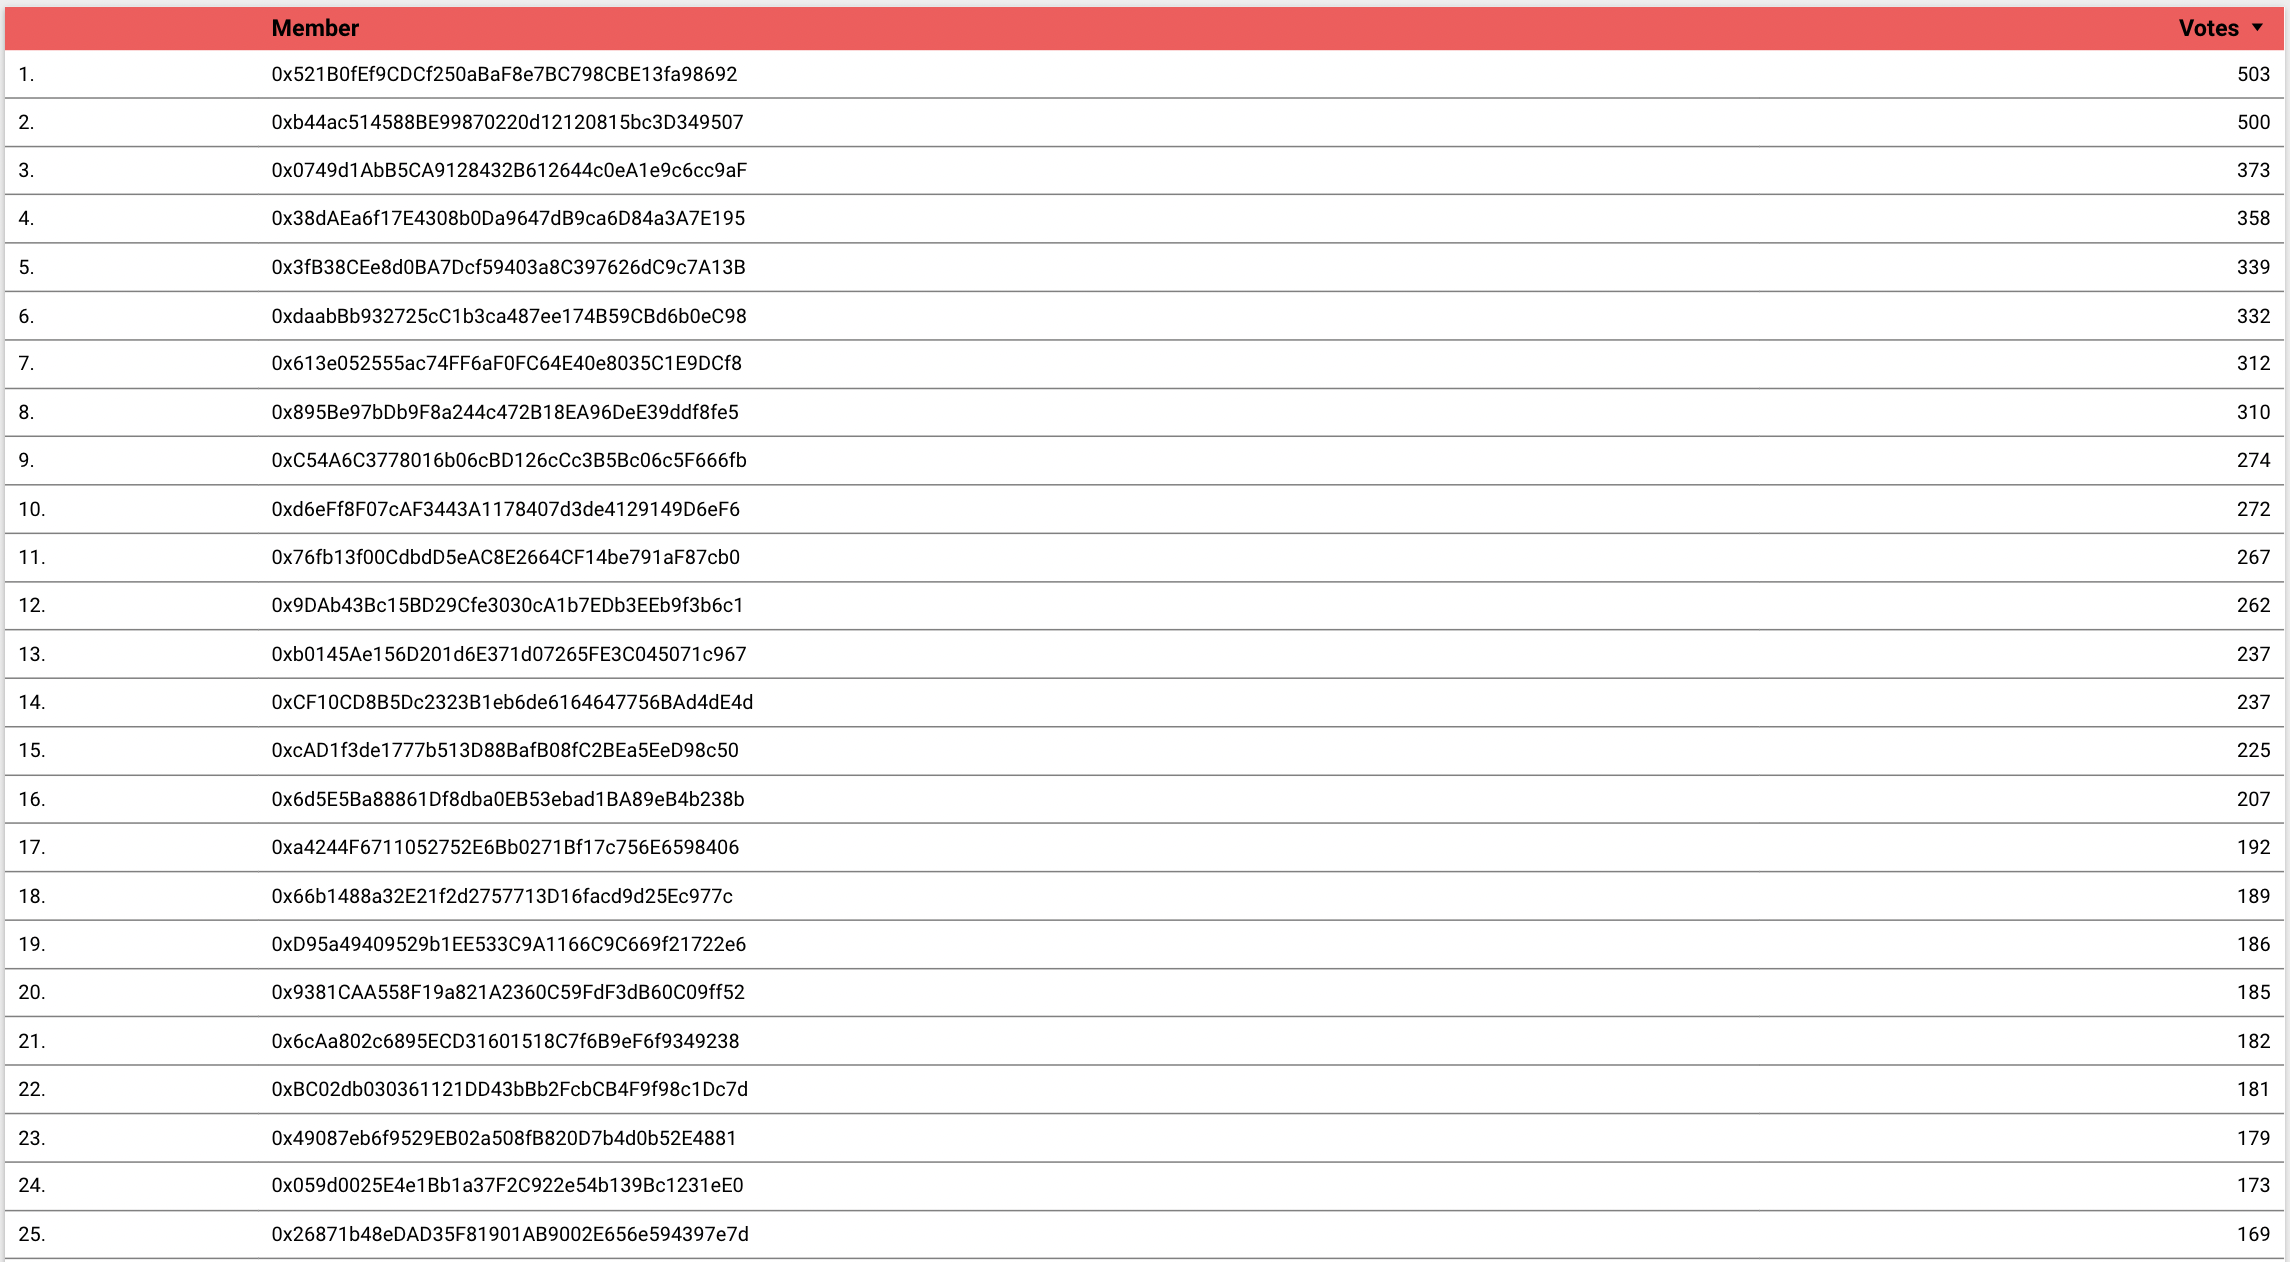
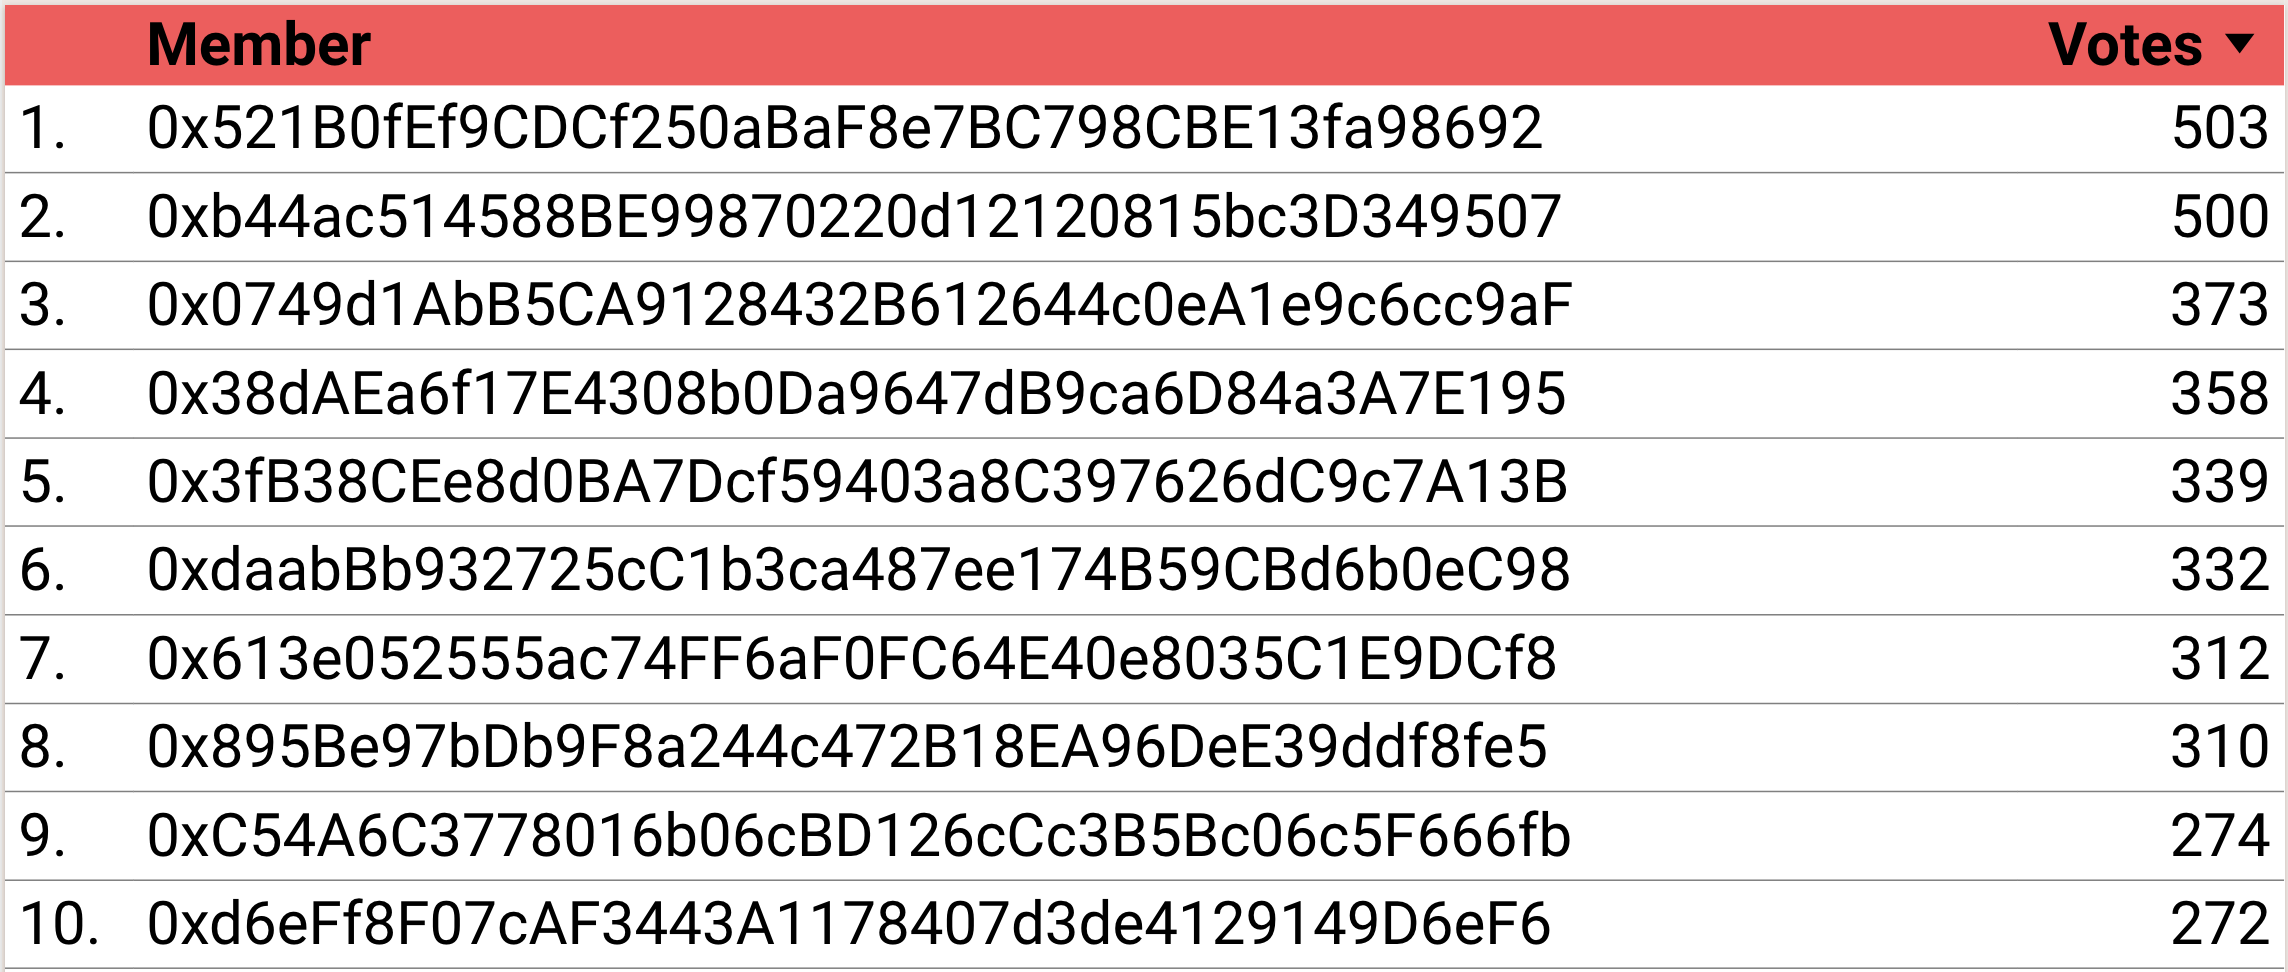
improved charts explanation

Changed region(s): [[0.0, 0.0, 1.0, 1.0], [0.8689, 0.1543, 0.8999, 0.1852]]

diff --git a/BSP_MA_Listings_BibLaTeX.tex b/BSP_MA_Listings_BibLaTeX.tex
@@ -1021,6 +1021,10 @@ Figure \ref{fig:proposal_types} shows the number of proposals created according 
   \label{fig:proposal_types}
 \end{figure}
 
+\begin{itemize}
+  \item \textbf{Surveys}: These are proposals that are used to collect information from the community.
+\end{itemize}
+
 Figure \ref{fig:proposal_status} shows the final result of the proposals once the voting period is over, where 66\% are rejected, 25\% are enacted and 8\% are approved.
 \begin{figure}[H]
   \centering
@@ -1114,7 +1118,7 @@ Figure \ref{fig:vote_weight} shows by month, the average weight of votes in the 
   \end{table}
 \end{center}
 
-Figure \ref{fig:grants_amount} shows the number of grants rejected and enacted per month, with an average of 36\% of grant submissions being approved.
+Figure \ref{fig:grants_amount} shows the number of grants rejected and enacted per month, with an average of 36\% of grant submissions being approved. Since November 2021 there has been an increase in the number of submissions due to the boom in Decentraland after the company Meta announced that it was developing its own metaverse. As of March 2022, the level of participation stabilized.
 \begin{figure}[H]
   \centering
   \includegraphics[width=\textwidth]{metrics/grants_amount.png}
@@ -1130,7 +1134,7 @@ Figure \ref{fig:funds_granted} shows the amount of funds allocated to grants per
   \label{fig:funds_granted}
 \end{figure}
 
-Figure \ref{fig:funds_recovered} shows the amount of funds that returned to the DAO from unfinished grants.
+Figure \ref{fig:funds_recovered} shows the amount of funds that returned to the DAO from unfinished grants. Since May 2022, a team known as the "Grant Support Squad" has been in charge, among other things, of following up on grantees and, if they do not comply with the agreed-upon work, their grant is revoked.
 \begin{figure}[H]
   \centering
   \includegraphics[width=\textwidth]{metrics/funds_recovered.png}
@@ -1154,7 +1158,7 @@ Figure \ref{fig:category_distribution} shows how the categories of grants enacte
   \item \textbf{Gaming}: This category bridges the Creator and Platform Contributor categories by funding individuals and teams committed to building complete games for Decentraland.
 \end{itemize}
 
-Figure \ref{fig:tier_distribution} shows the distribution of grant tiers requested, with Tier 4 (between US\$5,000 and US\$60,000) being the most requested.
+Figure \ref{fig:tier_distribution} shows the distribution of grant tiers requested, with Tier 4 (between US\$5,000 and US\$60,000) being the most requested. Tier 1 and 2 are one-time payments, Tier 3 is a 3-month vesting with a 1-month cliff and Tier 4 to 6 are 6-month vestings with a 1-month cliff.
 \begin{figure}[H]
   \centering
   \includegraphics[width=\textwidth]{metrics/tier_distribution.png}
@@ -1165,7 +1169,7 @@ Figure \ref{fig:tier_distribution} shows the distribution of grant tiers request
 
 \section{DAO Balances}
 
-Figure \ref{fig:dao_balance} and \ref{fig:token_distribution} shows how the tokens in the different DAO wallets are allocated, with MANA being the main one as of the date of this writing. Said token represents 99\% of the holdings.
+Figure \ref{fig:dao_balance}, \ref{fig:token_distribution} and \ref{fig:token_distribution_log} shows how the tokens in the different DAO wallets are allocated. The reliance on MANA, Decentraland's native token, is evident given that it accounts for 99\% of wallet holdings as of Oct. 24, 2022.
 \begin{figure}[H]
   \centering
   \includegraphics[width=\textwidth]{metrics/dao_balance.png}
@@ -1177,6 +1181,12 @@ Figure \ref{fig:dao_balance} and \ref{fig:token_distribution} shows how the toke
   \includegraphics[width=\textwidth]{metrics/token_distribution.png}
   \caption{Distribution of tokens in DAO wallets as of October 24, 2022}
   \label{fig:token_distribution}
+\end{figure}
+\begin{figure}[H]
+  \centering
+  \includegraphics[width=\textwidth]{metrics/token_distribution_log.png}
+  \caption{Distribution of tokens in DAO wallets in logarithmic scale as of October 24, 2022}
+  \label{fig:token_distribution_log}
 \end{figure}
 
 Figure \ref{fig:income} shows the DAO revenue sources by month and by category, highlighting cells based on their values.
@@ -1196,7 +1206,11 @@ Figure \ref{fig:expenses} shows the DAO expenses by month and by category, highl
   \label{fig:expenses}
 \end{figure}
 
-Table \ref{table:fees} shows as of October 24, 2022, the number of transactions made by the DAO wallets in different periods, how much was paid in total in gas fees (expressed in US dollars) and also the average of said values.
+Table \ref{table:fees} shows as of October 24, 2022, the number of transactions made by the DAO wallets in different periods, how much was paid in total in gas fees (expressed in US dollars) and also the average of said values. 
+
+These values are particularly high because transacting Ethereum became very expensive at a certain point. At Polygon, for example, the cost per transaction is just a few cents on the dollar.
+
+However, a drop in the cost of these transactions can be observed due to the current downward market context and, therefore, so is the demand.
 \begin{center}
   \begin{table}[H]
     \begin{tabular}{ | m{8em} | m{10em} | m{6em} | m{15em} | }
@@ -1212,7 +1226,7 @@ Table \ref{table:fees} shows as of October 24, 2022, the number of transactions 
       Last year &	86 &	\$6,164.27 &	\$71.68 \\
       \hline
     \end{tabular}
-    \caption{Transaction fees paid by DAO wallets}
+    \caption{Transaction fees paid by DAO wallets as of October 24, 2022}
     \label{table:fees}
   \end{table}
 \end{center}
@@ -1227,7 +1241,7 @@ Figure \ref{fig:curations} shows how many wearable curations each curator made p
   \label{fig:curations}
 \end{figure}
 
-Figure \ref{fig:submission_fees} shows how much money the DAO received per month (expressed in U.S. dollars at the then current value) from users for wearable curations.
+Figure \ref{fig:submission_fees} shows how much money the DAO received per month (expressed in U.S. dollars at the then current value) from users for wearable curations. The submission fee for them is a fixed value in MANA and, given the current downward market context, the value of these expressed in U.S. dollars has been decreasing in the last few months.
 \begin{figure}[H]
   \centering
   \includegraphics[width=\textwidth]{metrics/submission_fees.png}
@@ -1235,7 +1249,7 @@ Figure \ref{fig:submission_fees} shows how much money the DAO received per month
   \label{fig:submission_fees}
 \end{figure}
 
-Figure \ref{fig:curators_pay} shows the amount of money paid to the curators per month (expressed in U.S. dollars at the then current value) for curations performed.
+Figure \ref{fig:curators_pay} shows the amount of money paid to the curators per month (expressed in U.S. dollars at the then current value) for curations performed. They are also paid with MANA and that explains why the values in US dollars are lower in the last months.
 \begin{figure}[H]
   \centering
   \includegraphics[width=\textwidth]{metrics/curators_pay.png}
@@ -1251,7 +1265,7 @@ Figure \ref{fig:day_difference} shows by month, the average number of days diffe
   \label{fig:day_difference}
 \end{figure}
 
-Figure \ref{fig:rarity_distribution} shows how the rarity of wearables in circulation as of October 24, 2022 is distributed.
+Figure \ref{fig:rarity_distribution} shows how the rarity of wearables in circulation as of October 24, 2022 is distributed. It is interesting to see how there are more rare objects in circulation than uncommon ones. Although the maximum supply of rare objects is lower than that of uncommon ones, it is possible that people demand more rare objects, which is why their circulation is higher than that of uncommon ones.
 \begin{figure}[H]
   \centering
   \includegraphics[width=\textwidth]{metrics/rarity_distribution.png}
@@ -1259,7 +1273,7 @@ Figure \ref{fig:rarity_distribution} shows how the rarity of wearables in circul
   \label{fig:rarity_distribution}
 \end{figure}
 
-Figure \ref{fig:sales_fees} shows the total fees received by the DAO per month for Decentraland assets transactions (wearables, LANDs and NAMES).
+Figure \ref{fig:sales_fees} shows the total fees received by the DAO per month for Decentraland assets transactions (wearables, LANDs and NAMES). These fees represent 2.5\% of the total value of the sales.
 \begin{figure}[H]
   \centering
   \includegraphics[width=\textwidth]{metrics/sales_fees.png}
@@ -1286,27 +1300,27 @@ Figure \ref{fig:delegation_ratio} shows the distribution of members participatin
   \label{fig:delegation_ratio}
 \end{figure}
 
-Figure \ref{fig:top_voters} shows the historical top 25 addresses that voted the most on DAO proposals.
+Figure \ref{fig:top_voters} shows the historical top 10 addresses that voted the most on DAO proposals.
 \begin{figure}[H]
   \centering
   \includegraphics[width=\textwidth]{metrics/top_voters.png}
-  \caption{Top 25 historical voters}
+  \caption{Top 10 historical voters as of October 24, 2022}
   \label{fig:top_voters}
 \end{figure}
 
-Figure \ref{fig:top_delegates} shows the top 25 addresses that have received the most delegations of voting power as of October 24, 2022.
+Figure \ref{fig:top_delegates} shows the top 10 addresses that have received the most delegations of voting power.
 \begin{figure}[H]
   \centering
   \includegraphics[width=\textwidth]{metrics/top_delegates.png}
-  \caption{Top 25 delegation receivers as of October 24, 2022}
+  \caption{Top 10 delegation receivers as of October 24, 2022}
   \label{fig:top_delegates}
 \end{figure}
 
-Figure \ref{fig:top_authors} shows the historical top 25 of the addresses that created the most proposals in the DAO
+Figure \ref{fig:top_authors} shows the historical top 10 of the addresses that created the most proposals in the DAO
 \begin{figure}[H]
   \centering
   \includegraphics[width=\textwidth]{metrics/top_authors.png}
-  \caption{Top 25 proposal authors as of October 24, 2022}
+  \caption{Top 10 proposal authors as of October 24, 2022}
   \label{fig:top_authors}
 \end{figure}
 
